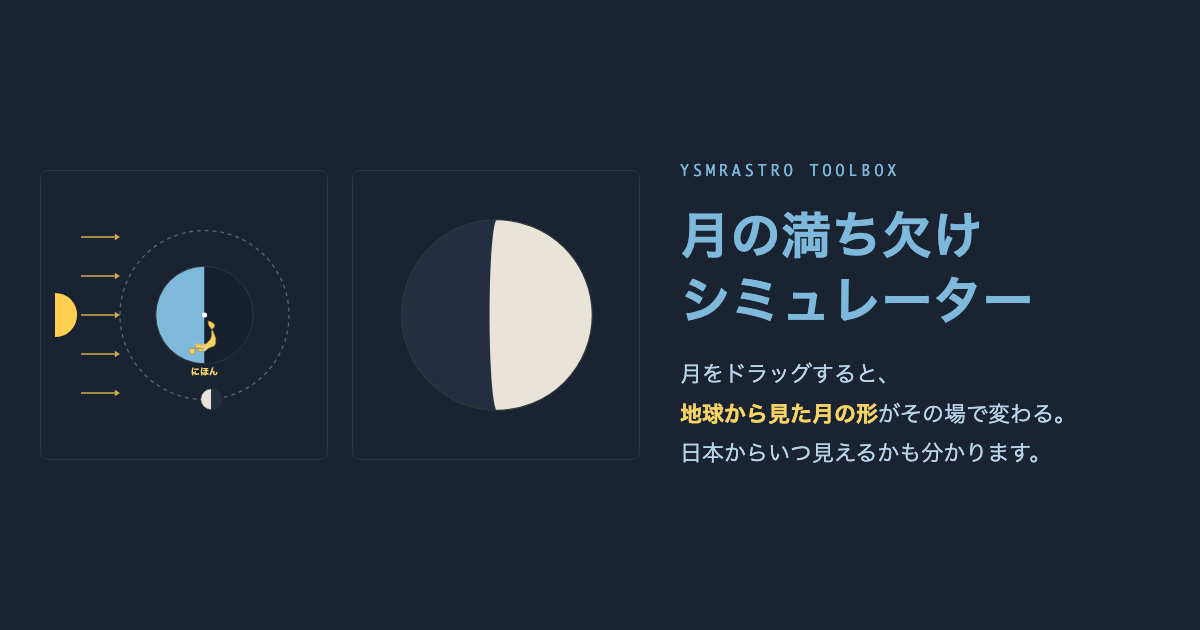
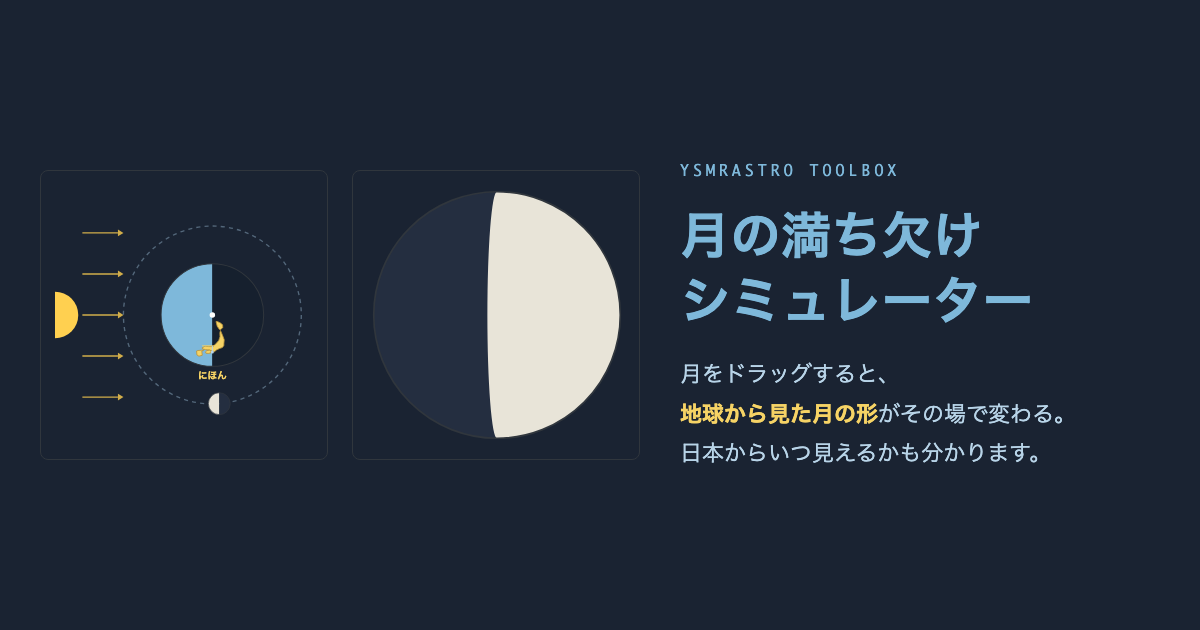
図をパネルいっぱいに広げる
「操作部の横並びはOKだが、図がパネルの中で小さすぎる」という指摘を受けて、
デスクトップ（701px以上）で svg を画面の高さいっぱいまで広げる。

- body→mp-app→mp-stage→mp-panel→svg と flex を通し、タイトル・読み取り・操作部の
  自然な高さを引いた「残り」を svg まで渡す。body に明示の height:100vh を与えないと
  flex-grow が配る「残り」を計算できない点が最初の実装ミスで、直した
  （min-height だけでは足りない）
- mp-stage の align-items:start（パネルを自然な高さで置く指定）が、デスクトップでは
  paneをstageの行いっぱいに揃える stretch を打ち消してしまっていたのも直した
- viewBox の余白を削る。軌道図は 400×400→380×294（月の軌道＋月の半径ぶんが
  ちょうど収まる高さ）、月の形は 300×300→232×232（円の半径+6pxの余白だけ）。
  ORBIT_CY・SHAPE_CX/CY はこの新しい中心に合わせて動かした
- パネル内の見出しと説明文を1行に詰める（今までは2行）。長すぎた説明文も短くした
- パネルの上下パディング・読み取り欄や操作部の余白も削って、図にまわす

1280×720・1280×800 とも、軌道の円・月の形の直径がパネルの内側の高さの80%を
超えることを実測で確認（720で80.4%/86.2%、800で82.1%/88.0%）。操作部は
どちらの高さでも画面内に収まる。

OGP もこの見た目で撮り直した。

Claude-Session: https://claude.ai/code/session_01Ec7cruD94MtchvZ2xUZFFA

diff --git a/moon-phase/style.css b/moon-phase/style.css
@@ -46,9 +46,11 @@
 
 /* ============================================================
    図
-   ── 1280×800 でも操作部までスクロールなしで収まるよう、svg の高さを
-      画面の高さ基準（vh）で頭打ちにする。横幅で決まる高さとどちらか
-      小さいほうが使われる（幅が十分あるスマホの横向きなどでも安全）。
+   ── デスクトップ（701px以上）は下の @media で、画面の高さいっぱいに
+      図を広げる（body→mp-app→mp-stage→mp-panel→svg と flex を通し、
+      操作部などの自然な高さを引いた「残り」を svg まで渡す）。
+      ここのモバイル向けの指定は、その入れ子が効かない狭い画面のための
+      素朴な指定（svg は横幅に合わせ、高さは画面の高さ基準で頭打ち）。
    ============================================================ */
 .mp-stage {
   display: grid;
@@ -61,19 +63,28 @@
   background: var(--mp-bg);
   border: 1px solid var(--tb-border);
   border-radius: var(--tb-radius-lg);
-  padding: var(--tb-space-sm) var(--tb-space-md);
+  /* 上下だけ 2px まで詰める（図の高さを1pxでも多く稼ぐため。左右は tb-space-md のまま） */
+  padding: 2px var(--tb-space-md);
   min-width: 0;
+}
+/* 見出しと説明文を1行に並べて、縦を図にまわす */
+.mp-panel-head {
+  display: flex;
+  align-items: baseline;
+  flex-wrap: wrap;
+  gap: 0 var(--tb-space-xs);
 }
 .mp-panel h2 {
   font-size: var(--tb-font-size-sm);
   font-weight: 700;
   color: var(--mp-text);
-  margin: 0 0 2px;
+  margin: 0;
+  white-space: nowrap;
 }
 .mp-hint {
   font-size: var(--tb-font-size-xs);
   color: var(--mp-subtext);
-  margin: 0 0 var(--tb-space-xs);
+  margin: 0;
   line-height: 1.4;
 }
 
@@ -123,7 +134,7 @@
    ============================================================ */
 .mp-readout {
   text-align: center;
-  margin: var(--tb-space-xs) 0;
+  margin: 2px 0;
 }
 .mp-age {
   font-size: var(--tb-font-size-base);
@@ -154,7 +165,7 @@
    ============================================================ */
 .mp-controls {
   display: grid;
-  gap: var(--tb-space-xs);
+  gap: 2px;
   max-width: 640px;
   margin: 0 auto;
 }
@@ -199,7 +210,6 @@
   align-items: center;
   justify-content: center;
   gap: var(--tb-space-xs);
-  margin-top: 2px;
 }
 .mp-speed-btn {
   font: inherit;
@@ -220,6 +230,62 @@
 }
 
 .mp-play { min-width: 9rem; white-space: nowrap; }
+
+/* ============================================================
+   デスクトップ ── 図を画面の高さいっぱいまで広げる
+   ── body を縦の flex にして、ヘッダーの下（mp-app）に残りの高さを渡す。
+      mp-app の中でも、タイトル・読み取り・操作部は自然な高さのまま
+      （flex-grow せず）、mp-stage だけが残りの高さを受け取って伸びる。
+      grid の行は既定で stretch するので、2つの mp-panel はどちらも
+      mp-stage と同じ高さになる。panel の中は見出し・説明・svg の
+      縦並び flex にして、svg だけを「残り」いっぱいに広げる。
+      svg 自身は幅・高さとも 100% にするだけでよい ── viewBox が正方形
+      なので、はみ出す側は自動で余白になり、絵が歪んだり切れたりしない
+      （SVG の既定の preserveAspectRatio による）。
+   ============================================================ */
+@media (min-width: 701px) {
+  body {
+    display: flex;
+    flex-direction: column;
+    /* flex-grow が配れる「残り」を作るには、コンテナの高さが確定していないといけない。
+       reset.css の min-height:100vh だけでは高さがコンテンツ依存のままで、
+       mp-stage に伸ばす余地が生まれない（伸ばす分を計算できないため）。 */
+    height: 100vh;
+  }
+  .mp-app {
+    flex: 1 1 auto;
+    min-height: 0;
+    display: flex;
+    flex-direction: column;
+    /* 上下の余白も図にまわす（左右は tb-space-md のまま） */
+    padding-top: 4px;
+    padding-bottom: 2px;
+  }
+  .mp-stage {
+    flex: 1 1 auto;
+    min-height: 0;
+    /* 基本の align-items:start（パネルを自然な高さのまま上に置く指定）を、
+       行の高さいっぱいに揃えるほうへ上書きする */
+    align-items: stretch;
+  }
+  .mp-panel {
+    display: flex;
+    flex-direction: column;
+    min-height: 0;
+  }
+  .mp-panel-head {
+    flex: none;
+  }
+  .mp-panel svg {
+    flex: 1 1 auto;
+    min-height: 0;
+    width: 100%;
+    height: 100%;
+    max-width: none;
+    max-height: none;
+    margin: 0;
+  }
+}
 
 /* ============================================================
    スマホ ── 左（軌道図）が上、右（月の形）が下に積む

diff --git a/moon-phase/index.html b/moon-phase/index.html
@@ -28,7 +28,7 @@
   <link rel="stylesheet" href="../shared/css/reset.css">
   <link rel="stylesheet" href="../shared/css/components.css">
   <link rel="stylesheet" href="../shared/css/layout.css">
-  <link rel="stylesheet" href="style.css?v=1.4.0">
+  <link rel="stylesheet" href="style.css?v=1.5.0">
 </head>
 <body>
 
@@ -48,14 +48,18 @@
 
   <div class="mp-stage">
     <section class="mp-panel mp-panel--orbit">
-      <h2><ruby>北極<rt>ほっきょく</rt></ruby>から<ruby>見<rt>み</rt></ruby><ruby>下<rt>おろ</rt></ruby>ろした図</h2>
-      <p class="mp-hint">太陽は左。<ruby>金色<rt>きんいろ</rt></ruby>が「にほん」。月をドラッグしてうごかしてみよう。</p>
-      <svg id="mp-orbit" viewBox="0 0 400 400" role="img" aria-label="北極の上から見た、太陽・地球（日本の位置つき）・月の位置"></svg>
+      <div class="mp-panel-head">
+        <h2><ruby>北極<rt>ほっきょく</rt></ruby>から<ruby>見<rt>み</rt></ruby><ruby>下<rt>おろ</rt></ruby>ろした図</h2>
+        <p class="mp-hint">太陽は左。ドラッグでうごかそう。</p>
+      </div>
+      <svg id="mp-orbit" viewBox="0 0 380 294" role="img" aria-label="北極の上から見た、太陽・地球（日本の位置つき）・月の位置"></svg>
     </section>
     <section class="mp-panel mp-panel--shape">
-      <h2><ruby>地球<rt>ちきゅう</rt></ruby>から<ruby>見<rt>み</rt></ruby>た<ruby>月<rt>つき</rt></ruby>の<ruby>形<rt>かたち</rt></ruby></h2>
-      <p class="mp-hint">北半球から見上げたときの見え方です。</p>
-      <svg id="mp-shape" viewBox="0 0 300 300" role="img" aria-label="地球から見た月の形"></svg>
+      <div class="mp-panel-head">
+        <h2><ruby>地球<rt>ちきゅう</rt></ruby>から<ruby>見<rt>み</rt></ruby>た<ruby>月<rt>つき</rt></ruby>の<ruby>形<rt>かたち</rt></ruby></h2>
+        <p class="mp-hint">北半球から見上げたときの見え方です。</p>
+      </div>
+      <svg id="mp-shape" viewBox="0 0 232 232" role="img" aria-label="地球から見た月の形"></svg>
       <div class="mp-moon-overlay">
         <p>いまは しずんでいて <ruby>見<rt>み</rt></ruby>えない</p>
       </div>

diff --git a/moon-phase/app.js b/moon-phase/app.js
@@ -78,8 +78,10 @@ function moonShapePath(cx, cy, r, phi) {
 }
 
 /* ---- 軌道図（北極から見下ろした図） ---- */
+// viewBox（index.html 側）は 0 0 380 294。月の軌道＋月の半径ぶん（ORBIT_R+MOON_R=146）の
+// 上下に 1px だけ余白を残した高さにしてある。cy を動かしたら viewBox の高さも合わせて直す。
 const orbitSvg = document.getElementById('mp-orbit');
-const ORBIT_CX = 230, ORBIT_CY = 200, ORBIT_R = 130;
+const ORBIT_CX = 230, ORBIT_CY = 147, ORBIT_R = 130;
 // EARTH_R は「軌道半径の0.35〜0.4倍程度」という目安より大きい（比は約0.58）。
 // 月（半径 MOON_R）が軌道上のどこにいても地球に重ならない範囲で、日本の形が見える
 // 大きさまで上げてある（ORBIT_R - EARTH_R - MOON_R = 39px の余白を残す）。
@@ -256,9 +258,10 @@ function updateJapan(rotDeg) {
 }
 
 /* ---- 月の形（地球から見た見え方） ---- */
+// viewBox は 0 0 232 232（円の半径110+左右6pxの余白だけ）。
 const shapeSvg = document.getElementById('mp-shape');
 const shapePanel = document.querySelector('.mp-panel--shape');
-const SHAPE_CX = 150, SHAPE_CY = 150, SHAPE_R = 110;
+const SHAPE_CX = 116, SHAPE_CY = 116, SHAPE_R = 110;
 let shapePath;
 
 function buildShapeScene() {

diff --git a/moon-phase/ogp-source.html b/moon-phase/ogp-source.html
@@ -25,9 +25,9 @@
 <body>
   <div class="ogp">
     <div class="ogp__art">
-      <section class="mp-panel mp-panel--orbit"><svg id="mp-orbit" viewBox="0 0 400 400"></svg></section>
+      <section class="mp-panel mp-panel--orbit"><svg id="mp-orbit" viewBox="0 0 380 294"></svg></section>
       <section class="mp-panel mp-panel--shape">
-        <svg id="mp-shape" viewBox="0 0 300 300"></svg>
+        <svg id="mp-shape" viewBox="0 0 232 232"></svg>
         <div class="mp-moon-overlay"><p>いまは しずんでいて 見えない</p></div>
       </section>
     </div>
